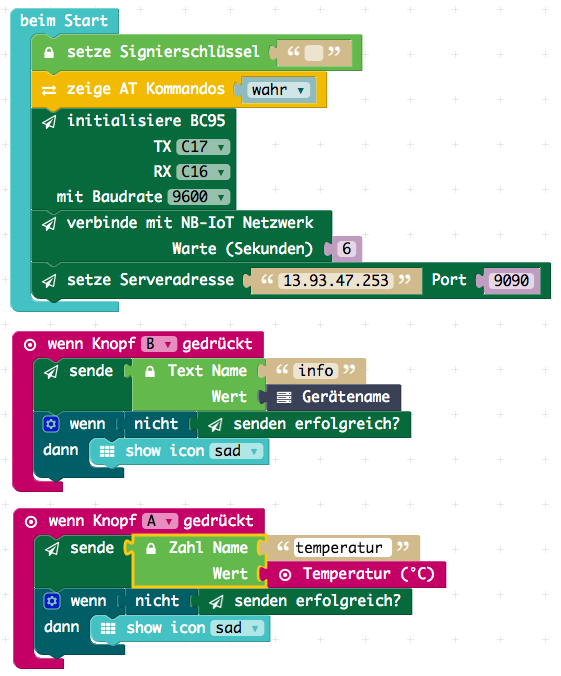
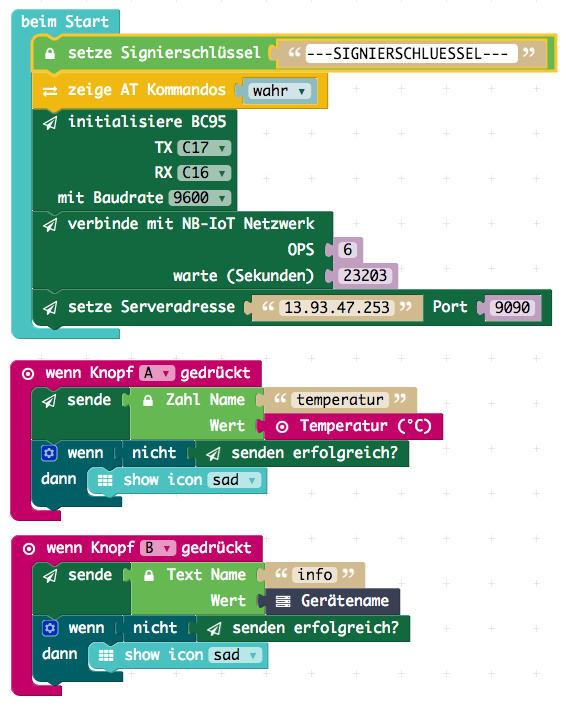
update COPS handling in C++ and PXT

diff --git a/nbiot-cpp-template/source/main.cpp b/nbiot-cpp-template/source/main.cpp
@@ -15,8 +15,6 @@
 #include "nacl/armnacl.h"
 
 // ATTENTION: Select the correct COPS value depending on the network you are on (Germany or Austria)
-
-
 //#define COPS  "26201"   // Telekom-DE
 #define COPS  "23203"     // Telekom-AT
 

diff --git a/de-cpp-development.md b/de-cpp-development.md
@@ -26,6 +26,9 @@ Zur Installation dieser Anleitung folgen:
 5. zum compilieren `yt build` ausführen
 6. die Datei `build/calliope-mini-classic-gcc/source/calliope-project-template-combined.hex` auf das USB Lauferk `MINI` kopieren
 
+> **ACHTUNG:** Bitte den korrekten Wert für `COPS` in `main.cpp` auswählen. Dieser unterscheidet sich, je nachdem, 
+> welches Netzwerk genutzt wird. Für Deutschland: `26201` und für Österreich: `23203`.
+ 
 ## Entwicklung
 
 Die Quellen des Beispielprojects befinden sich in `source/main.cpp`. Im gleichen Verzeichnis befinden sich noch 

diff --git a/en-cpp-development.md b/en-cpp-development.md
@@ -25,6 +25,9 @@ To install the development environment, follow these steps:
 4. use `yt build` to compile
 5. copy the resulting `build/calliope-mini-classic-gcc/source/calliope-project-template-combined.hex` file to the `MINI` USB drive
 
+> **ATTENTION:** Please select the correct value for `COPS` in main.cpp. It is different, depending on the network 
+> you use. For Germany: `26201` and for Austria: `23203`.
+
 ## Development
 
 The sources for the example project are located in `source/main.cpp`. The same directory also contains additional

diff --git a/de-pxt-development.md b/de-pxt-development.md
@@ -70,7 +70,7 @@ bc95.init(
     BaudRate.BaudRate9600
 )
 bc95.attach(
-    6
+    6, 23203 // IN DEUTSCHLAND IST DAS 26201
 )
 bc95.setServer("13.93.47.253", 9090)
 ```

diff --git a/en-pxt-development.md b/en-pxt-development.md
@@ -70,7 +70,7 @@ bc95.init(
     BaudRate.BaudRate9600
 )
 bc95.attach(
-    6
+    6, 23203 // IF IN GERMANY USE 26201
 )
 bc95.setServer("13.93.47.253", 9090)
 ```
